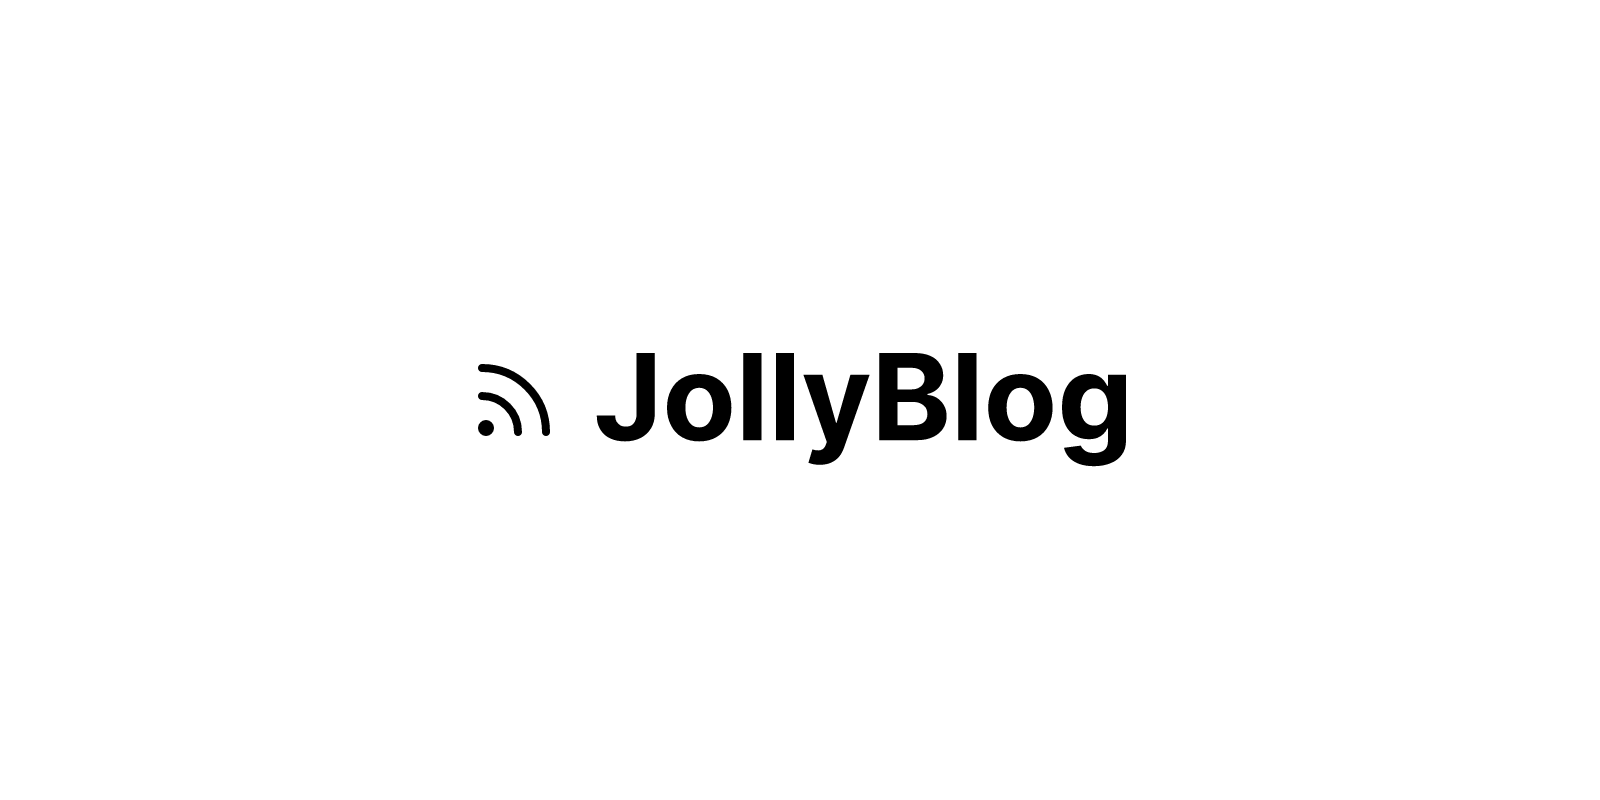
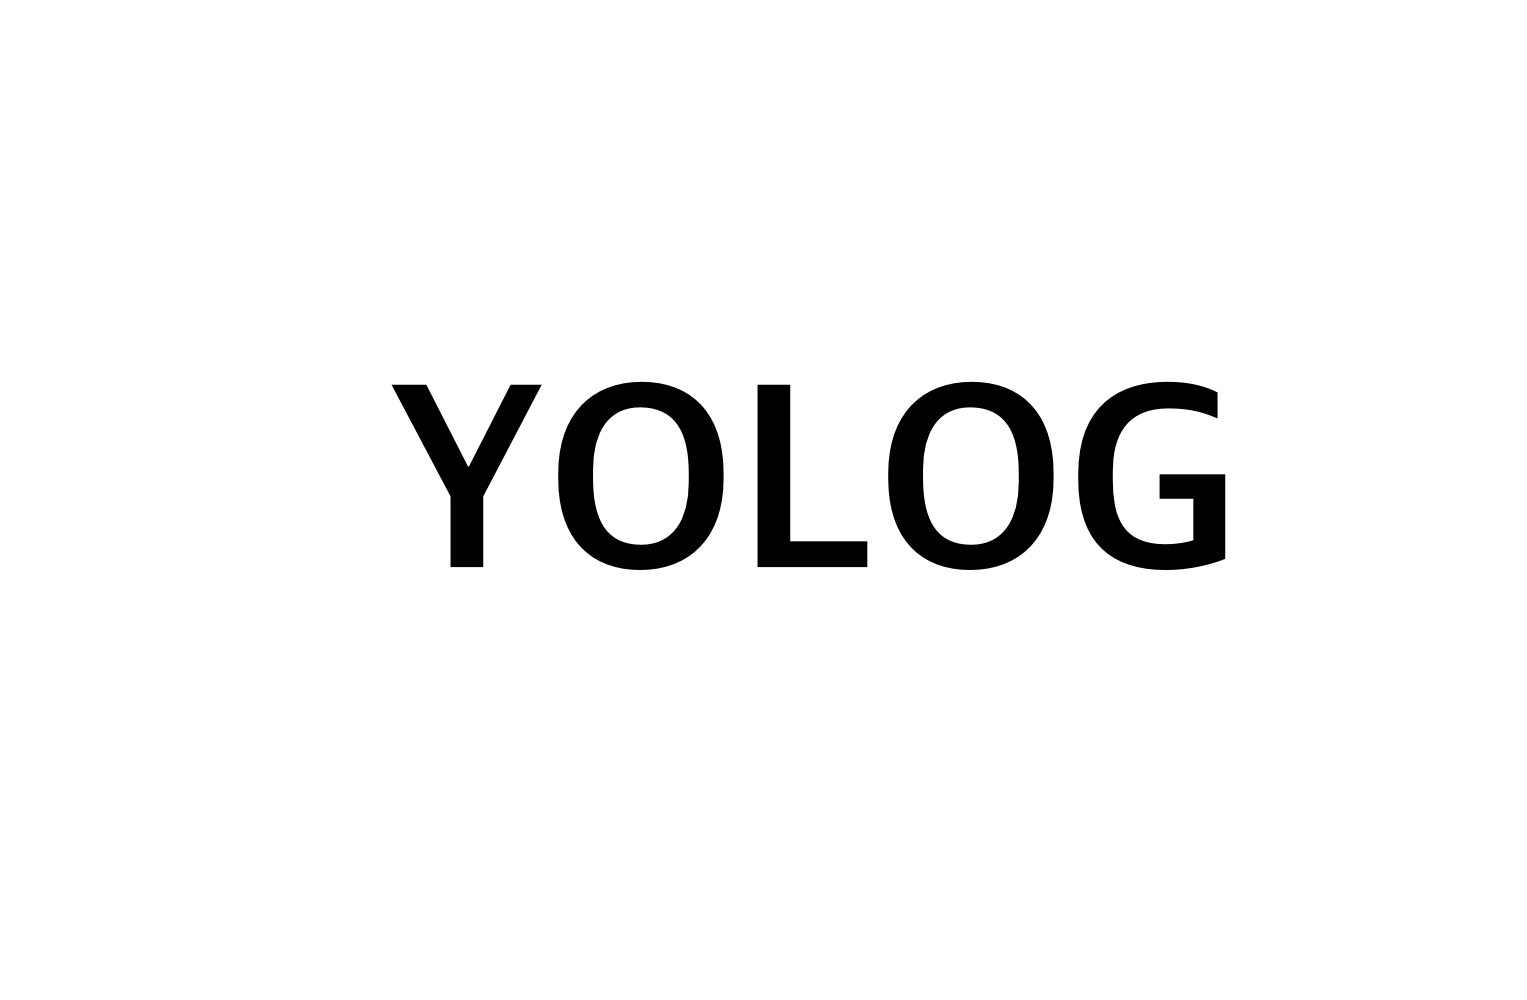
chore: .env.local 수정

Changed region(s): [[0.2462, 0.375, 0.8003, 0.5938]]

diff --git a/app/notion/page.tsx b/app/notion/page.tsx
@@ -44,7 +44,6 @@ export default async function NotionPage({ searchParams }: BlogPageProps) {
         <ul className='flex flex-col'>
           {displayPosts.map((post: any) => {
             const { id, slug, date, title, summary, category } = post;
-
             return (
               <li key={id}>
                 <NotionPostItem

diff --git a/config/site.ts b/config/site.ts
@@ -10,7 +10,7 @@ export const siteConfig = {
     twitter: 'https://twitter.com/yong_min__Kim',
     github: 'https://github.com/dydals3440',
     personalSite: 'https://github.com/dydals3440',
-    linkedin: 'www.linkedin.com/in/dydals3440',
+    linkedin: 'https://www.linkedin.com/in/dydals3440',
   },
 };
 

diff --git a/app/layout.tsx b/app/layout.tsx
@@ -28,7 +28,7 @@ export default function RootLayout({
   children: React.ReactNode;
 }>) {
   return (
-    <html lang='en' className='scroll-pt-[3.5rem]'>
+    <html lang='ko' className='scroll-pt-[3.5rem]'>
       <body
         className={cn(
           'min-h-screen bg-background font-sans antialiased',

diff --git a/app/page.tsx b/app/page.tsx
@@ -7,8 +7,8 @@ import { Metadata } from 'next';
 import Link from 'next/link';
 
 export const metadata: Metadata = {
-  title: 'My blog',
-  description: 'This is a description',
+  title: 'YOLOG',
+  description: 'My Blog Description Posting My Studying',
 };
 
 export default function Home() {
